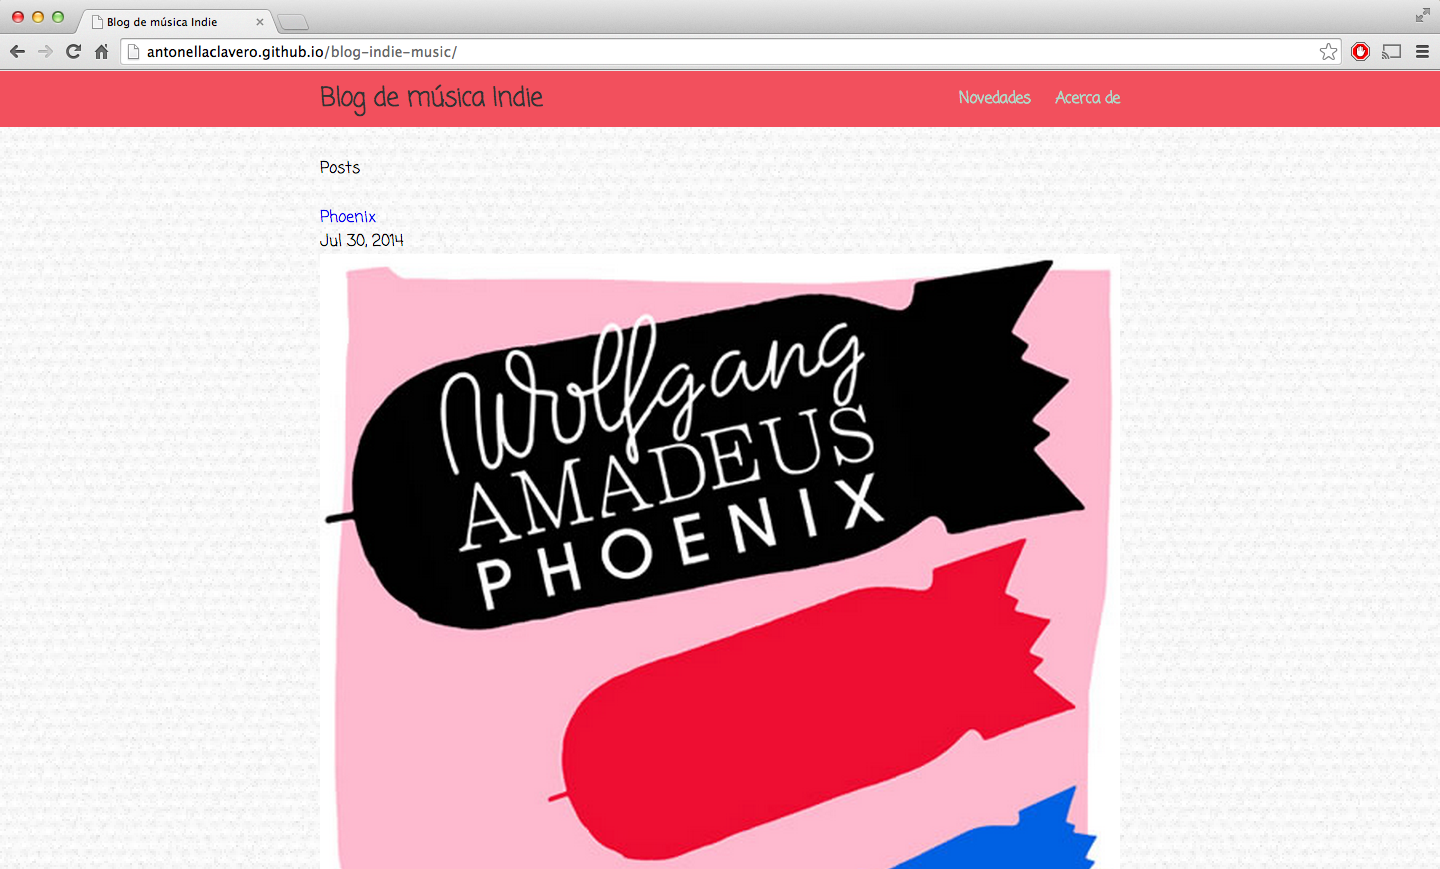
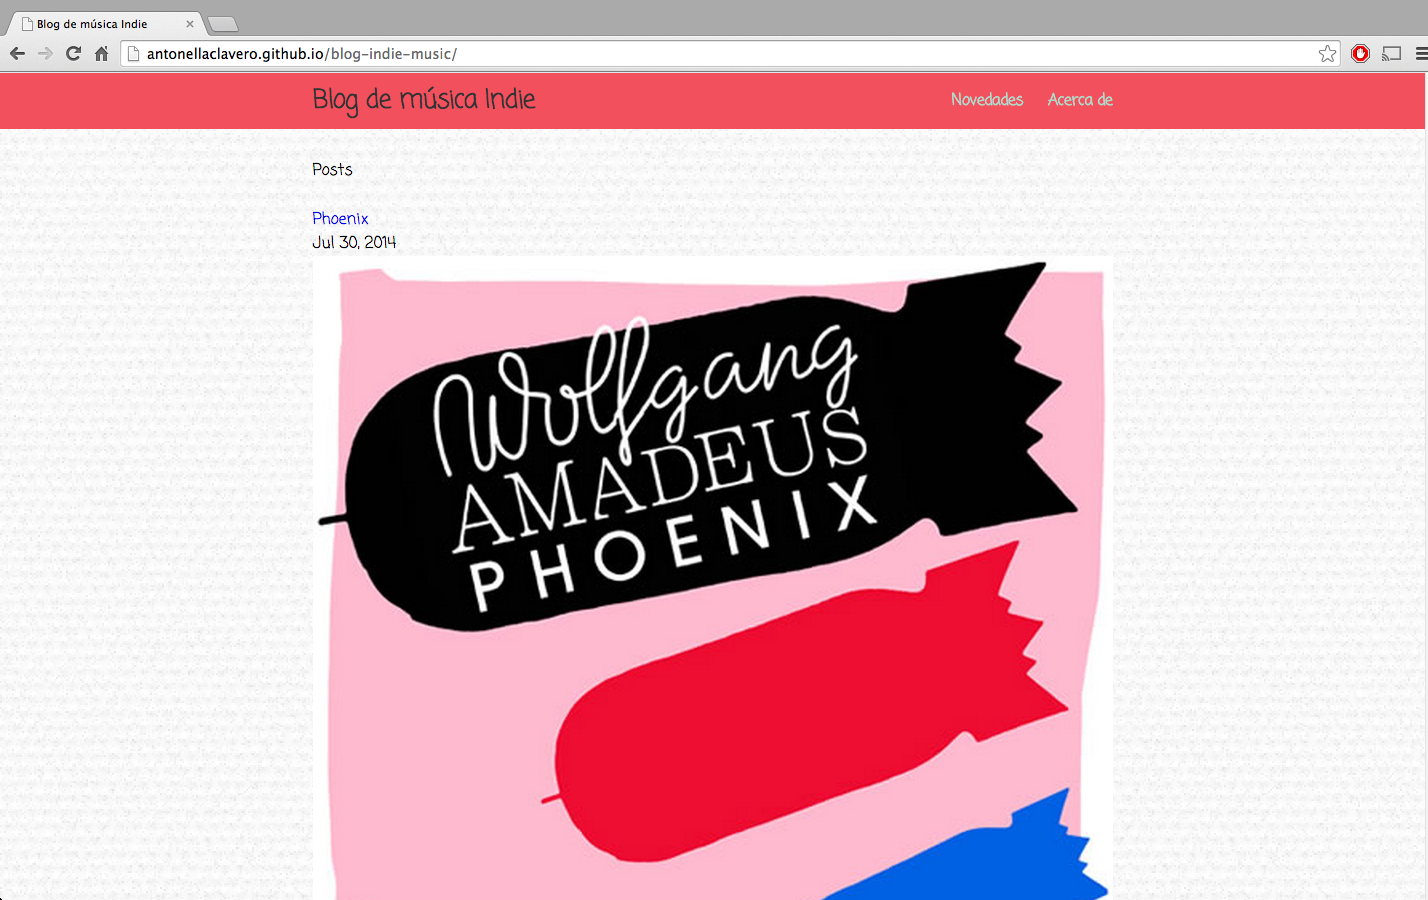
Agrego nuevos proyectos, diminuyo width de imagenes, modifico responsive

diff --git a/index.html b/index.html
@@ -55,6 +55,12 @@
                         </a>
                 </section>
                 <section>
+                        <a href="http://antonellaclavero.github.io/santiagoalonso" target="_blank">
+                            <img src="images/santiagoalonso.jpg" alt="Sitio Web Santiago Alonso">
+                            <p>Santiago Alonso</p>
+                        </a>
+                </section>
+                <section>
                         <a href="http://antonellaclavero.github.io/vero-teran" target="_blank">
                             <img src="images/veroteran.jpg" alt="Sitio, Veronica Teran">
                             <p>Verónica Terán</p>
@@ -66,12 +72,12 @@
                             <p>Uno WiFi</p>
                         </a>
                 </section>
-                <!--section> 
+                <section> 
                         <a href="http://antonellaclavero.github.io/caraguata" target="_blank">
                             <img src="images/caraguata.jpg" alt="Sitio, Caraguata">
                             <p>Caraguatá</p>
                         </a>
-                </section-->
+                </section>
                 <section>
                         <a href="http://antonellaclavero.github.io/blog-indie-music/" target="_blank">
                             <img src="images/blog-indie-music.jpg" alt="Blog personal">

diff --git a/css/main.css b/css/main.css
@@ -88,7 +88,7 @@ header nav a {
 #projects img {
 	box-shadow: #F0F0F0  0 0 0 5px, #303030  0 0 0 5px; 	
 	/*opacity: 0.4;*/
-	max-width: 100%;
+	width: 70%;
 }
 #projects section p {
 	text-transform: uppercase;
@@ -148,7 +148,12 @@ footer {
     width: 100%;
     float: none;
   }
+  /*#projects img {
+	width: 70%;
+  }*/
+}
+@media screen and (max-width: 600px) {
   #projects img {
-	opacity: 1.0;
+	width: 80%;
   }
 }
